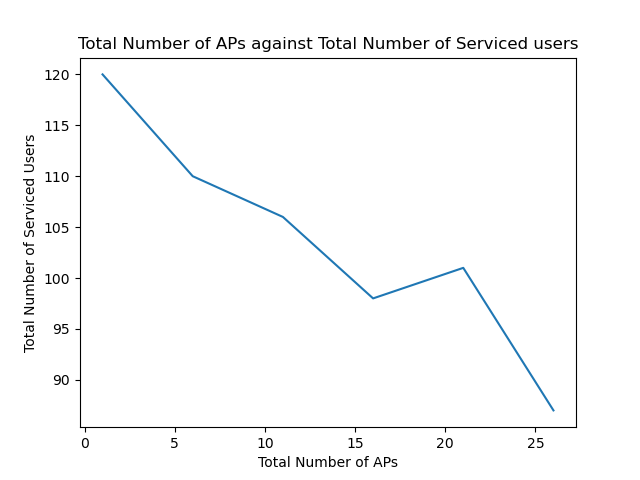
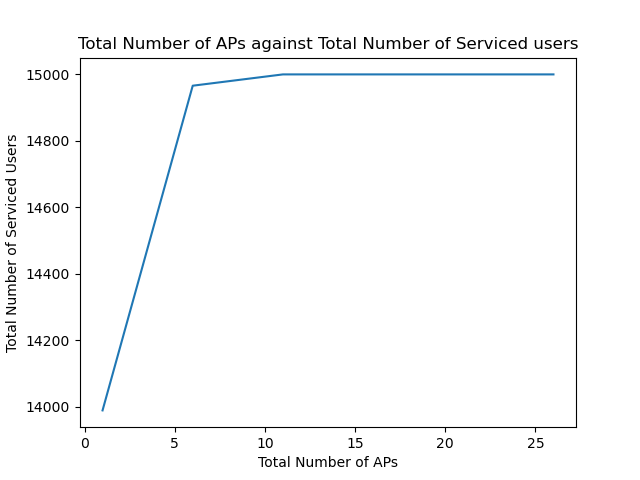
Testing discrete markov chain.
Should work fine at the moment but without unit consistency.

diff --git a/network-simulator/components.py b/network-simulator/components.py
@@ -2,6 +2,8 @@ from random import randint
 import envs
 from helpers import calcDistance
 from helpers import calcPowerTransmit
+from discreteMarkov import energyArrivalStates
+from discreteMarkov import energyArrivalOutput
 
 class Location:
     def __init__(self, x, y):
@@ -26,6 +28,7 @@ class AccessPoint:
         self.location = location
         self.energy_store = energy_start
         self.energy_consumed = 0
+        self.energy_consumed_prev = 0
         self.service_counter = 0
 
         """ ap_userlist item
@@ -35,6 +38,7 @@ class AccessPoint:
         ap_userlist[i][1] : Distance between the User and the Access Point
         """
         self.ap_userlist = []
+        self.ap_userlist_prev = []
 
         if self.energy_store >= envs.ENERGY_USE_BASE:
             self.state = 1
@@ -47,7 +51,7 @@ class AccessPoint:
         Energy generated is added into the energy_store of the Access Point.
         This is limited by ENERGY_STORE_MAX.
 
-        TODO : Store some meaningful metric about how often energy saturation is acheived.
+        TODO: Store some meaningful metric about how often energy saturation is acheived.
         """
         if self.energy_store + energy_gen >= ENERGY_STORE_MAX:
             self.energy_store = ENERGY_STORE_MAX
@@ -56,7 +60,7 @@ class AccessPoint:
 
         if self.energy_store >= self.calcEnergyUse()[0]:
             self.state = 1
-            print("Access Point {} tried to turn on.".format(self.id))
+            # print("Access Point {} tried to turn on.".format(self.id))
         else:
             self.state = 0
 
@@ -68,6 +72,9 @@ class AccessPoint:
         Sends service_counter to the Access Point Class.
         If energy_consumed is larger than energy_store, switch the Access Point off.
         """
+        self.energy_consumed_prev = self.energy_consumed
+        self.ap_userlist_prev = self.ap_userlist
+
         self.energy_consumed, service_counter = self.calcEnergyUse()
         self.service_counter = self.service_counter + service_counter
 
@@ -118,7 +125,9 @@ class AccessPoint:
         """
         for user in self.ap_userlist:
             usrlist[user[0]].connected_ap = ["Not Connected", "No Distance"]
-            self.ap_userlist.pop()
+            self.ap_userlist = []
+
+        # print("Kicking users resulted in {} ".format(self.ap_userlist))
 
     def stateSwitch(self):
         """ Handle the state of the Access Point
@@ -134,7 +143,7 @@ class AccessPoint:
         """ Prints info about the Access Point
 
         """
-        print('AP: {} \n\tLocation: ({}, {}) \n\tEnergy Stored: {} \n\tState: {} \n\tServiced Users: {}\n\tEnergy Use: {} \n\tUser List: {}'.format(self.id, self.location.x, self.location.y, self.energy_store, self.state, self.service_counter, self.energy_consumed, self.ap_userlist))
+        print('AP: {} \n\tLocation: ({}, {}) \n\tEnergy Stored: {} \n\tState: {} \n\tServiced Users: {}\n\tEnergy Use: {} \n\tUser List: {}'.format(self.id, self.location.x, self.location.y, self.energy_store, self.state, self.service_counter, self.energy_consumed, self.ap_userlist_prev))
 
 class User:
     def __init__(self, id, location):
@@ -180,10 +189,10 @@ class User:
         for ap in aplist:
             if ap.state == 1:
                 active_ap_list.append([ap.id, calcDistance(self.location.x, self.location.y, ap.location.x, ap.location.y)])
-                print(active_ap_list)
+                # print(active_ap_list)
 
         if active_ap_list == []:
-            print("Access Points are all offline")
+            # print("Access Points are all offline")
             return active_ap_list
         else:
             for distance in active_ap_list:
@@ -199,12 +208,11 @@ def initialiseEnv(init_vars):
     Declare global variables and constants for simulation.
 
     Create aplist and usrlist.
-
-    TODO : Allocate energy arrival with discretet markov chain
+    TODO: Allocate energy arrival with discretet markov chain
     """
+
     global GRID_SIZE, ENERGY_STORE_MAX, ENERGY_GEN_MAX, AP_TOTAL, USR_TOTAL, POWER_RECEIVED_REQUIRED, DIST_MOVEUSER_MAX, TIME_MAX
-    global usrlist, aplist
-    
+    global usrlist, aplist, markovstates
 
     GRID_SIZE = init_vars["GRID_SIZE"]
     ENERGY_STORE_MAX = init_vars["ENERGY_STORE_MAX"]
@@ -213,7 +221,7 @@ def initialiseEnv(init_vars):
     USR_TOTAL = init_vars["USR_TOTAL"]
     POWER_RECEIVED_REQUIRED = init_vars["POWER_RECEIVED_REQUIRED"]
     DIST_MOVEUSER_MAX = init_vars["DIST_MOVEUSER_MAX"]
-    TIME_MAX =init_vars["TIME_MAX"]
+    TIME_MAX = init_vars["TIME_MAX"]
 
     usrlist = []
     aplist = []
@@ -229,6 +237,9 @@ def initialiseEnv(init_vars):
         tmploc = Location(randint(0, GRID_SIZE), randint(0, GRID_SIZE))
         tmpusr = User(index, tmploc) 
         usrlist.append(tmpusr)
+
+    # Create Markov states
+    markovstates = energyArrivalStates(TIME_MAX)
 
 def simulator(init_vars):
     """ Main simulator loop
@@ -250,20 +261,19 @@ def simulator(init_vars):
 
         for ap in aplist:
             ap.discharge()
-            ap.info()
             ap.disconnectUser()
-            tmpenergy = randint(0, ENERGY_GEN_MAX)
-            print('Energy Generated: {}'.format(tmpenergy))
+            ap.info()
+            tmpenergy = energyArrivalOutput(markovstates[time_unit])
+            if tmpenergy < 0:
+                tmpenergy = 0
+
+            # print('Energy Generated: {}'.format(tmpenergy))
             ap.charge(tmpenergy)
+
 
     sim_service_counter = 0
     for ap in aplist:
         sim_service_counter = ap.service_counter + sim_service_counter
 
     return sim_service_counter
-
-
-
-
-
 

diff --git a/network-simulator/simulator.py b/network-simulator/simulator.py
@@ -18,19 +18,22 @@ def initVariable():
 
     init_vars = {
         "GRID_SIZE" : 30,
-        "ENERGY_STORE_MAX" : 50,
+        "ENERGY_STORE_MAX" : 200,
         "ENERGY_GEN_MAX" : 5,
         "ENERGY_USE_BASE" : 5.3,
-        "AP_TOTAL" : 1,
+        "AP_TOTAL" : 5,
         "USR_TOTAL" : 15,
-        "POWER_RECEIVED_DBM" : -70 ,
-        "TIME_MAX" : 10,
+        "POWER_RECEIVED_DBM" : -70,
+        "TIME_MAX" : 1000,
         "DIST_MOVEUSER_MAX" : 5,
     }
-    init_vars["POWER_RECEIVED_REQUIRED"] = 1 * pow(10, init_vars["POWER_RECEIVED_DBM"]/10) * 60
+    init_vars["POWER_RECEIVED_REQUIRED"] = 1 * pow(10, init_vars["POWER_RECEIVED_DBM"]/10) * 60 * 60 * 60
     return init_vars
 
+def plotGraphs():
+    """ Plot graphs from the simulation
 
+    """
 if __name__ == '__main__':
 
     # Create empty lists to store collected data
@@ -46,13 +49,15 @@ if __name__ == '__main__':
     #  Simulator Section  #
     #######################
     # Number of Access Points
-    # range_AP_total = range(1, 30, 5)
-    # for AP_TOTAL in range_AP_total:
-    #     init_vars = initVariable()
-    #     init_vars["AP_TOTAL"] = AP_TOTAL
-    #     serviced_user_sim_arr_apnumber.append(simulator(init_vars))
-    init_vars = initVariable()
-    serviced_user_sim_arr_apnumber.append(simulator(init_vars))
+    range_AP_total = range(1, 30, 5)
+    for AP_TOTAL in range_AP_total:
+        init_vars = initVariable()
+        init_vars["AP_TOTAL"] = AP_TOTAL
+        serviced_user_sim_arr_apnumber.append(simulator(init_vars))
+    # init_vars = initVariable()
+    # serviced_user_sim_arr_apnumber.append(simulator(init_vars))
+
+    # print(serviced_user_sim_arr_apnumber)
 
     # # Number of Users
     # range_usr_total = range(1, 30, 5)
@@ -110,12 +115,12 @@ if __name__ == '__main__':
     # plt.legend()
     # plt.savefig('scatterAPUser.png')
 
-    # plot2 = plt.figure(2)
-    # plt.plot(range_AP_total, serviced_user_sim_arr_apnumber)
-    # plt.xlabel('Total Number of APs')
-    # plt.ylabel('Total Number of Serviced Users')
-    # plt.title('Total Number of APs against Total Number of Serviced users')
-    # plt.savefig('totalnumberap.png')
+    plot2 = plt.figure(2)
+    plt.plot(range_AP_total, serviced_user_sim_arr_apnumber)
+    plt.xlabel('Total Number of APs')
+    plt.ylabel('Total Number of Serviced Users')
+    plt.title('Total Number of APs against Total Number of Serviced users')
+    plt.savefig('totalnumberap.png')
 
     # plot3 = plt.figure(3)
     # plt.plot(range_usr_total, serviced_user_sim_arr_usernumber)

diff --git a/network-simulator/discreteMarkov.py b/network-simulator/discreteMarkov.py
@@ -1,0 +1,46 @@
+from pydtmc import MarkovChain
+import numpy as np
+from math import sqrt
+
+def energyArrivalStates(TIMEMAX):
+    """ Returns an array of states for energy arrival
+
+    The states for energy arrival is an output from the discrete Markov Chain as demonstrated in https://arxiv.org/pdf/1405.7254.pdf.
+
+    Outputs the whole Markov Chain in a list.
+    """
+
+    probability_5min = [[0.979, 0.015, 0.006, 0], [0.005, 0.988, 0.007, 0], [0.006, 0.009, 0.975, 0.010], [0, 0, 0.007, 0.993]]
+
+    mc = MarkovChain(probability_5min, ['Poor', 'Fair', 'Good', 'Excellent'])
+    
+    states = mc.walk(TIMEMAX, seed = 42)
+
+    return states
+
+def energyArrivalOutput(state):
+    """ Returns the energy arrival by sampling a normal distribution
+
+    The dict states provides the mean and the variance of the normal distribution of each state of the markov chain.
+
+    The function picks a sample from the normal distribution in the unit of 0.1 W/cm^2.
+
+    """
+    states = {
+        'Poor' : [1.75, 0.65],
+        'Fair' : [4.21, 1.04],
+        'Good' : [7.02, 2.34],
+        'Excellent' : [9.38, 0.54]
+    }
+    
+    vars = states[state]
+    normaldist = np.random.normal(vars[0], sqrt(vars[1]), 1)
+
+    return normaldist
+
+
+if __name__ == '__main__':
+
+    for state in energyArrivalStates(10):
+        print(state)
+        print(energyArrivalOutput(state))
